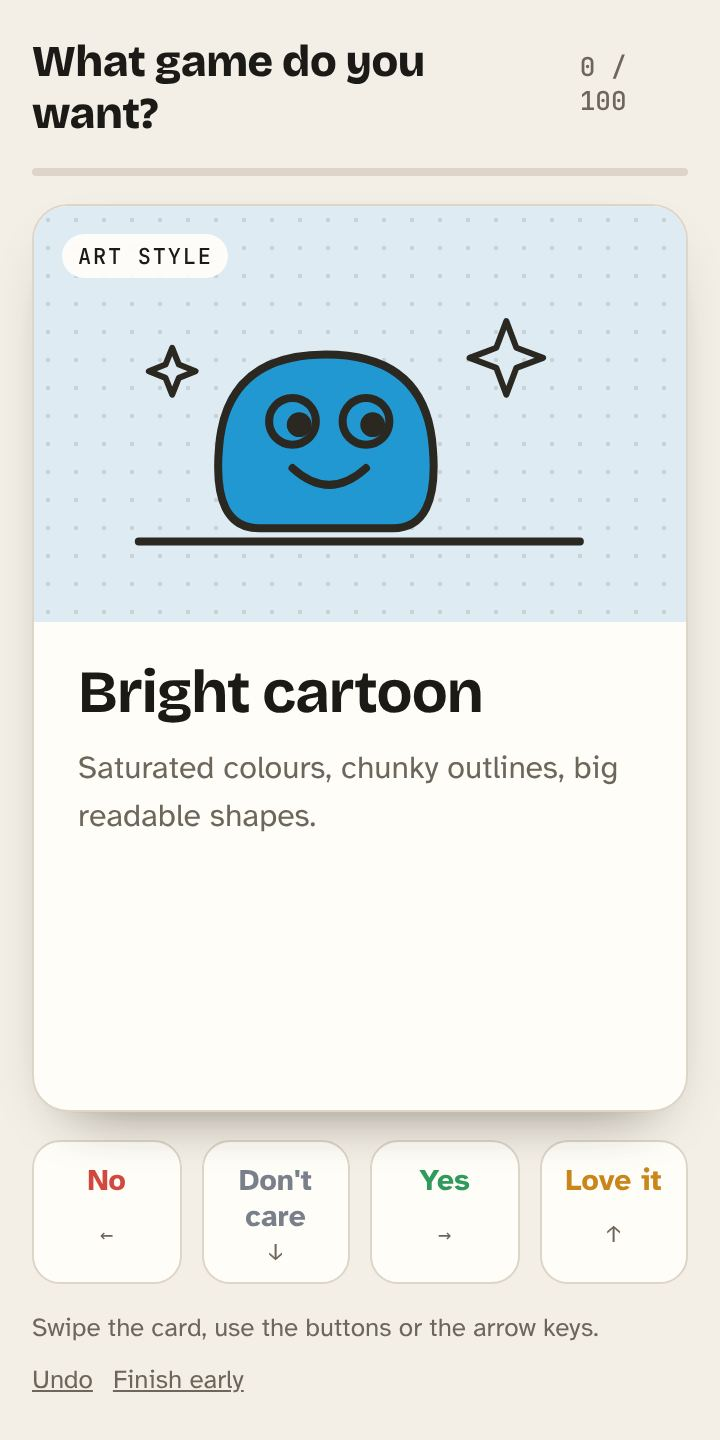
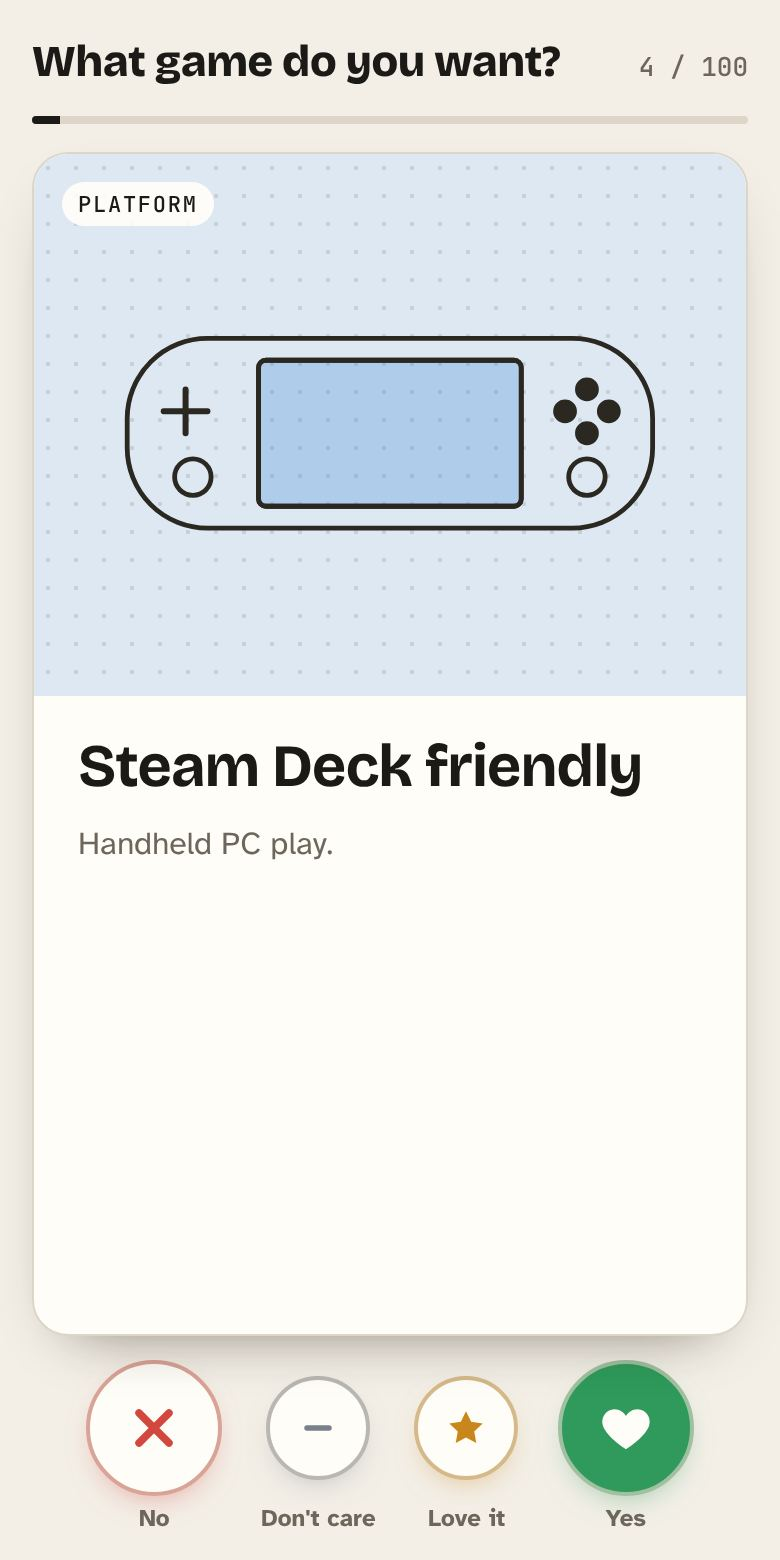
Taste Swipe round answer buttons; explain Hand Up with an example
Taste Swipe's four boxy verdict buttons are now round icon buttons: big No and Yes, small Don't care and Love it, with labels underneath. The skills page opens Hand Up with a plain sentence and a three-step example, and puts the setup steps behind a Set it up toggle.

Claude-Session: https://claude.ai/code/session_01JQ5hm1xvWcFJA3vU1r887M

diff --git a/skills/taste-swipe/assets/template.html b/skills/taste-swipe/assets/template.html
@@ -74,17 +74,26 @@ h1 { font-family: var(--display); font-weight: 800; font-size: 22px; margin: 0; 
 .stamp.yes { left: 18px; color: var(--yes); transform: rotate(-10deg); }
 .stamp.love { left: 50%; transform: translateX(-50%); color: var(--love); top: 40%; }
 .stamp.skip { left: 50%; transform: translateX(-50%); color: var(--skip); top: 40%; }
-.actions { display: grid; grid-template-columns: repeat(4, 1fr); gap: 10px; }
+.actions { display: flex; justify-content: center; align-items: flex-start; gap: clamp(12px, 5vw, 22px); }
 .btn {
-  appearance: none; border: 1.5px solid var(--line); background: var(--card); color: var(--fg); border-radius: 14px;
-  padding: 10px 6px 8px; font: 700 15px var(--body); cursor: pointer; display: grid; gap: 2px; justify-items: center;
-  transition: transform 0.12s ease, border-color 0.15s ease;
+  appearance: none; border: 0; background: none; padding: 0; color: var(--fg); cursor: pointer;
+  display: grid; grid-template-rows: 64px auto; gap: 6px; justify-items: center; align-items: center; font: 600 12px var(--body); -webkit-tap-highlight-color: transparent;
 }
-.btn:active { transform: scale(0.95); }
-.btn:focus-visible { outline: 2px solid var(--fg); outline-offset: 2px; }
-.btn small { font: 500 11px var(--mono); color: var(--muted); }
-.btn.no { color: var(--no); } .btn.yes { color: var(--yes); } .btn.love { color: var(--love); } .btn.skip { color: var(--skip); }
-.btn:hover { border-color: currentColor; }
+.btn i {
+  width: 64px; height: 64px; border-radius: 50%; display: grid; place-items: center; color: var(--c);
+  background: var(--card); border: 2px solid color-mix(in srgb, var(--c) 35%, var(--line));
+  box-shadow: 0 6px 16px -8px color-mix(in srgb, var(--c) 60%, transparent);
+  transition: transform 0.12s ease, background 0.15s ease, color 0.15s ease;
+}
+.btn.small i { width: 48px; height: 48px; }
+.btn svg { width: 30px; height: 30px; }
+.btn.small svg { width: 22px; height: 22px; }
+.btn span { color: var(--muted); }
+.btn:hover i, .btn:focus-visible i { background: var(--c); color: var(--card); }
+.btn:active i { transform: scale(0.9); }
+.btn:focus-visible { outline: none; }
+.btn:focus-visible i { outline: 2px solid var(--fg); outline-offset: 3px; }
+.btn.no { --c: var(--no); } .btn.yes { --c: var(--yes); } .btn.love { --c: var(--love); } .btn.skip { --c: var(--skip); }
 .foot { display: flex; justify-content: space-between; gap: 10px; font-size: 13px; color: var(--muted); flex-wrap: wrap; }
 .link { appearance: none; background: none; border: 0; color: var(--muted); font: inherit; text-decoration: underline; cursor: pointer; padding: 0; }
 .link:focus-visible { outline: 2px solid var(--fg); }
@@ -119,10 +128,10 @@ h1 { font-family: var(--display); font-weight: 800; font-size: 22px; margin: 0; 
   <section id="play" class="stage" aria-live="polite"></section>
 
   <div class="actions" id="actions">
-    <button class="btn no" id="bNo" data-v="no">No<small>&larr;</small></button>
-    <button class="btn skip" id="bSkip" data-v="skip">Don't care<small>&darr;</small></button>
-    <button class="btn yes" id="bYes" data-v="yes">Yes<small>&rarr;</small></button>
-    <button class="btn love" id="bLove" data-v="love">Love it<small>&uarr;</small></button>
+    <button class="btn no" id="bNo" data-v="no" title="No (&larr;)"><i><svg viewBox="0 0 24 24" fill="none" stroke="currentColor" stroke-width="3" stroke-linecap="round" aria-hidden="true"><path d="M6 6l12 12M18 6L6 18"/></svg></i><span>No</span></button>
+    <button class="btn skip small" id="bSkip" data-v="skip" title="Don't care (&darr;)"><i><svg viewBox="0 0 24 24" fill="none" stroke="currentColor" stroke-width="3" stroke-linecap="round" aria-hidden="true"><path d="M6 12h12"/></svg></i><span>Don't care</span></button>
+    <button class="btn love small" id="bLove" data-v="love" title="Love it (&uarr;)"><i><svg viewBox="0 0 24 24" fill="currentColor" aria-hidden="true"><path d="M12 2.8l2.8 5.8 6.3.9-4.6 4.4 1.1 6.3L12 17.2l-5.6 3 1.1-6.3-4.6-4.4 6.3-.9z"/></svg></i><span>Love it</span></button>
+    <button class="btn yes" id="bYes" data-v="yes" title="Yes (&rarr;)"><i><svg viewBox="0 0 24 24" fill="currentColor" aria-hidden="true"><path d="M12 20.5s-7.5-4.6-9.2-9.3C1.7 8 3.9 4.5 7.4 4.5c2 0 3.6 1.1 4.6 2.7 1-1.6 2.6-2.7 4.6-2.7 3.5 0 5.7 3.5 4.6 6.7-1.7 4.7-9.2 9.3-9.2 9.3z"/></svg></i><span>Yes</span></button>
   </div>
   <div class="foot" id="foot">
     <span>Swipe the card, use the buttons or the arrow keys.</span>

diff --git a/skills/taste-swipe/demo.html b/skills/taste-swipe/demo.html
@@ -78,17 +78,26 @@ h1 { font-family: var(--display); font-weight: 800; font-size: 22px; margin: 0; 
 .stamp.yes { left: 18px; color: var(--yes); transform: rotate(-10deg); }
 .stamp.love { left: 50%; transform: translateX(-50%); color: var(--love); top: 40%; }
 .stamp.skip { left: 50%; transform: translateX(-50%); color: var(--skip); top: 40%; }
-.actions { display: grid; grid-template-columns: repeat(4, 1fr); gap: 10px; }
+.actions { display: flex; justify-content: center; align-items: flex-start; gap: clamp(12px, 5vw, 22px); }
 .btn {
-  appearance: none; border: 1.5px solid var(--line); background: var(--card); color: var(--fg); border-radius: 14px;
-  padding: 10px 6px 8px; font: 700 15px var(--body); cursor: pointer; display: grid; gap: 2px; justify-items: center;
-  transition: transform 0.12s ease, border-color 0.15s ease;
+  appearance: none; border: 0; background: none; padding: 0; color: var(--fg); cursor: pointer;
+  display: grid; grid-template-rows: 64px auto; gap: 6px; justify-items: center; align-items: center; font: 600 12px var(--body); -webkit-tap-highlight-color: transparent;
 }
-.btn:active { transform: scale(0.95); }
-.btn:focus-visible { outline: 2px solid var(--fg); outline-offset: 2px; }
-.btn small { font: 500 11px var(--mono); color: var(--muted); }
-.btn.no { color: var(--no); } .btn.yes { color: var(--yes); } .btn.love { color: var(--love); } .btn.skip { color: var(--skip); }
-.btn:hover { border-color: currentColor; }
+.btn i {
+  width: 64px; height: 64px; border-radius: 50%; display: grid; place-items: center; color: var(--c);
+  background: var(--card); border: 2px solid color-mix(in srgb, var(--c) 35%, var(--line));
+  box-shadow: 0 6px 16px -8px color-mix(in srgb, var(--c) 60%, transparent);
+  transition: transform 0.12s ease, background 0.15s ease, color 0.15s ease;
+}
+.btn.small i { width: 48px; height: 48px; }
+.btn svg { width: 30px; height: 30px; }
+.btn.small svg { width: 22px; height: 22px; }
+.btn span { color: var(--muted); }
+.btn:hover i, .btn:focus-visible i { background: var(--c); color: var(--card); }
+.btn:active i { transform: scale(0.9); }
+.btn:focus-visible { outline: none; }
+.btn:focus-visible i { outline: 2px solid var(--fg); outline-offset: 3px; }
+.btn.no { --c: var(--no); } .btn.yes { --c: var(--yes); } .btn.love { --c: var(--love); } .btn.skip { --c: var(--skip); }
 .foot { display: flex; justify-content: space-between; gap: 10px; font-size: 13px; color: var(--muted); flex-wrap: wrap; }
 .link { appearance: none; background: none; border: 0; color: var(--muted); font: inherit; text-decoration: underline; cursor: pointer; padding: 0; }
 .link:focus-visible { outline: 2px solid var(--fg); }
@@ -123,10 +132,10 @@ h1 { font-family: var(--display); font-weight: 800; font-size: 22px; margin: 0; 
   <section id="play" class="stage" aria-live="polite"></section>
 
   <div class="actions" id="actions">
-    <button class="btn no" id="bNo" data-v="no">No<small>&larr;</small></button>
-    <button class="btn skip" id="bSkip" data-v="skip">Don't care<small>&darr;</small></button>
-    <button class="btn yes" id="bYes" data-v="yes">Yes<small>&rarr;</small></button>
-    <button class="btn love" id="bLove" data-v="love">Love it<small>&uarr;</small></button>
+    <button class="btn no" id="bNo" data-v="no" title="No (&larr;)"><i><svg viewBox="0 0 24 24" fill="none" stroke="currentColor" stroke-width="3" stroke-linecap="round" aria-hidden="true"><path d="M6 6l12 12M18 6L6 18"/></svg></i><span>No</span></button>
+    <button class="btn skip small" id="bSkip" data-v="skip" title="Don't care (&darr;)"><i><svg viewBox="0 0 24 24" fill="none" stroke="currentColor" stroke-width="3" stroke-linecap="round" aria-hidden="true"><path d="M6 12h12"/></svg></i><span>Don't care</span></button>
+    <button class="btn love small" id="bLove" data-v="love" title="Love it (&uarr;)"><i><svg viewBox="0 0 24 24" fill="currentColor" aria-hidden="true"><path d="M12 2.8l2.8 5.8 6.3.9-4.6 4.4 1.1 6.3L12 17.2l-5.6 3 1.1-6.3-4.6-4.4 6.3-.9z"/></svg></i><span>Love it</span></button>
+    <button class="btn yes" id="bYes" data-v="yes" title="Yes (&rarr;)"><i><svg viewBox="0 0 24 24" fill="currentColor" aria-hidden="true"><path d="M12 20.5s-7.5-4.6-9.2-9.3C1.7 8 3.9 4.5 7.4 4.5c2 0 3.6 1.1 4.6 2.7 1-1.6 2.6-2.7 4.6-2.7 3.5 0 5.7 3.5 4.6 6.7-1.7 4.7-9.2 9.3-9.2 9.3z"/></svg></i><span>Yes</span></button>
   </div>
   <div class="foot" id="foot">
     <span>Swipe the card, use the buttons or the arrow keys.</span>

diff --git a/index.html b/index.html
@@ -48,6 +48,12 @@
     .how li b { font-family: "JetBrains Mono", ui-monospace, monospace; font-size: 13px; color: var(--accent); }
     .install { margin-top: 24px; }
     .install > p { margin: 0; color: var(--muted); }
+    .setup { margin-top: 32px; }
+    .setup summary { cursor: pointer; font-weight: 700; font-size: 18px; display: inline-flex; align-items: center; gap: 10px; border: 1px solid var(--line); background: var(--surface); border-radius: 999px; padding: 10px 18px; list-style: none; }
+    .setup summary::-webkit-details-marker { display: none; }
+    .setup summary::after { content: "+"; font-family: "JetBrains Mono", monospace; color: var(--accent); }
+    .setup[open] summary::after { content: "−"; }
+    .setup .mode:first-of-type { margin-top: 20px; }
     .demo { position: sticky; top: 20px; display: grid; gap: 10px; justify-items: center; }
     .phone { width: 100%; max-width: 360px; aspect-ratio: 9 / 17; border-radius: 36px; border: 10px solid #0f1a12; background: #0f1a12; overflow: hidden; position: relative; box-shadow: 0 24px 60px -30px rgba(15, 26, 18, .55); }
     .phone iframe { position: absolute; inset: 0; width: 100%; height: 100%; border: 0; background: #fff; }
@@ -130,9 +136,14 @@ done</pre>
     <section id="hand-up">
       <div class="skill">
         <div>
-          <span class="tag mono">skill · optional mcp server</span>
+          <span class="tag mono">skill · for coding agents</span>
           <h2 style="margin-top:12px">Hand Up</h2>
-          <p class="lede" style="font-size:18px">All your agents raise a hand in one swipe deck when they're blocked, about to collide, or found something you should know. Swipe right to go with their pick, left to dismiss, up for later, down to reply. The agent reads your answer and tells you it picked it up.</p>
+          <p class="lede" style="font-size:18px">When a coding agent gets stuck and needs you, it doesn't sit waiting in a terminal you aren't watching. It puts a card in one deck on your phone. You swipe, and it carries on.</p>
+          <ol class="how">
+            <li><b>01</b><span><strong>Claude gets stuck.</strong> It's about to drop a database column and isn't sure, so it raises a card: "Back it up first / Drop now / Keep it", and recommends the first.</span></li>
+            <li><b>02</b><span><strong>You swipe.</strong> Right takes its pick, left dismisses, up is later, down lets you reply in words. Every agent you run, Claude, Codex or others, lands in the same deck.</span></li>
+            <li><b>03</b><span><strong>It carries on.</strong> The agent reads your answer, does it, and the card shows "✓ claude picked it up: backed up, then dropped".</span></li>
+          </ol>
           <div class="files" style="margin-top:16px">
             <a href="skills/hand-up/SKILL.md">SKILL.md <span>for agents with skills</span></a>
             <a href="skills/hand-up/assets/deck.html">deck.html <span>the swipe deck</span></a>
@@ -144,10 +155,12 @@ done</pre>
           <div class="phone" data-src="skills/hand-up/demo.html">
             <button type="button" class="poster" aria-label="Play the Hand Up demo"><img src="assets/hand-up.jpg" alt="" width="360" height="720" loading="lazy"><span>▶ Play the demo</span></button>
           </div>
-          <p class="demo-note">Four agents need you. Answer one and watch the agent pick it up. <a href="skills/hand-up/demo.html" target="_blank" rel="noopener">Full screen ↗</a></p>
+          <p class="demo-note">Four agents are waiting on you. Swipe one and watch the agent pick it up. <a href="skills/hand-up/demo.html" target="_blank" rel="noopener">Full screen ↗</a></p>
         </div>
       </div>
 
+      <details class="setup">
+        <summary>Set it up</summary>
       <div class="mode">
         <h3>Deck mode: Claude, nothing to host</h3>
         <p>Cards live in a private Hand Up page in your Claude account, so you clear them in the Claude app on your phone.</p>
@@ -215,6 +228,7 @@ env = { HANDUP_URL = "https://your-hub", HANDUP_TOKEN = "…", HANDUP_AGENT = "c
         </div>
       </div>
       </div>
+      </details>
     </section>
 
     <section id="vibe-check">
